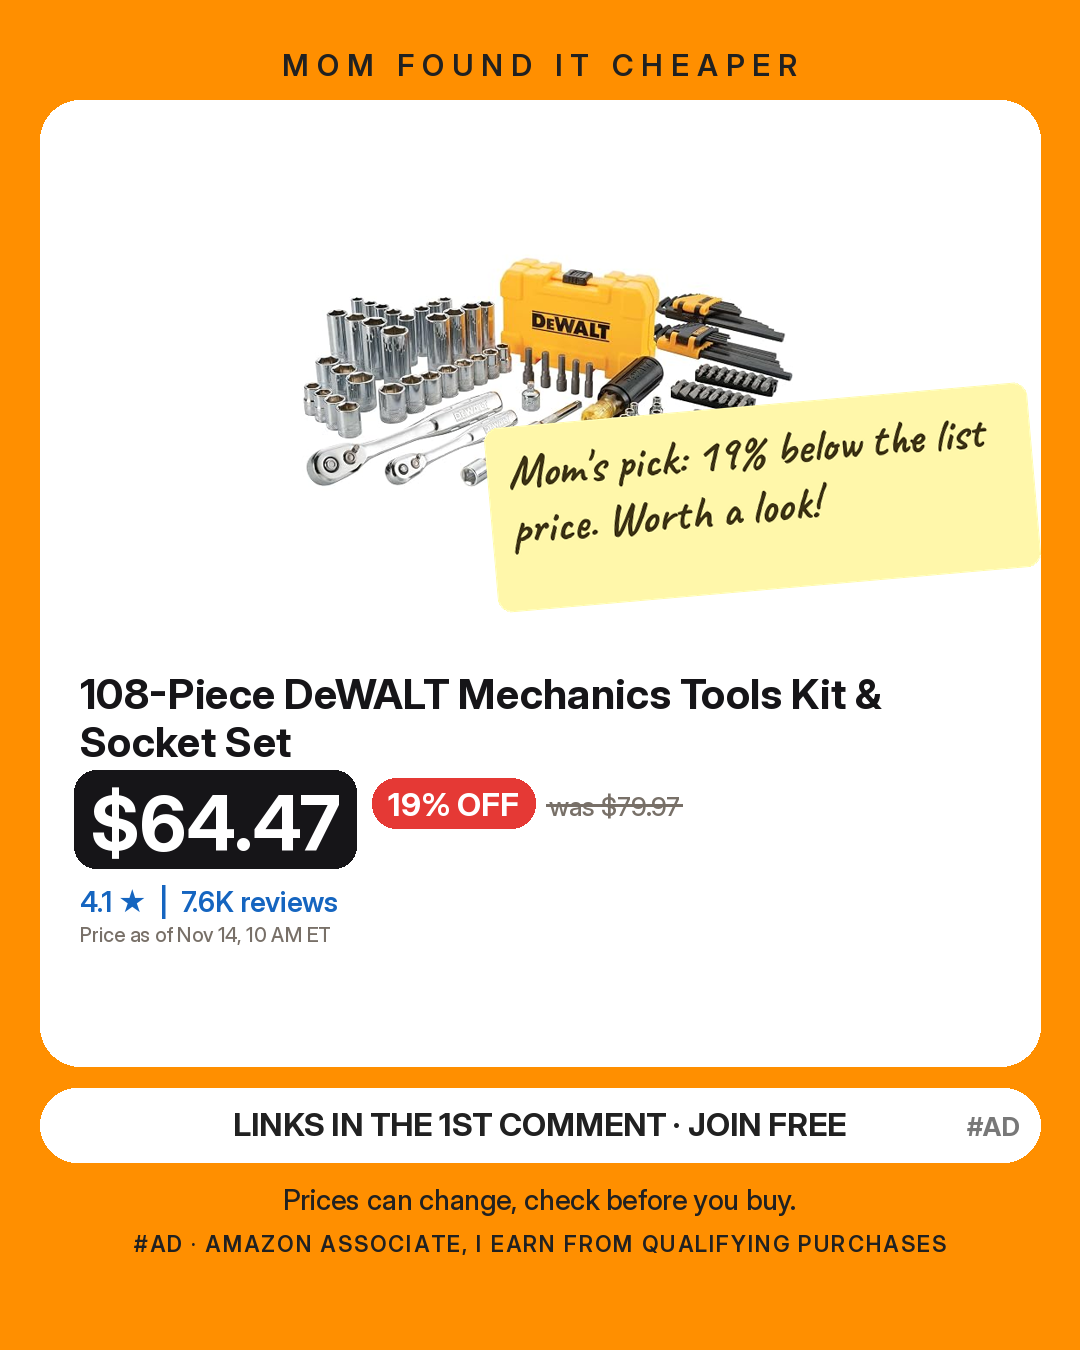
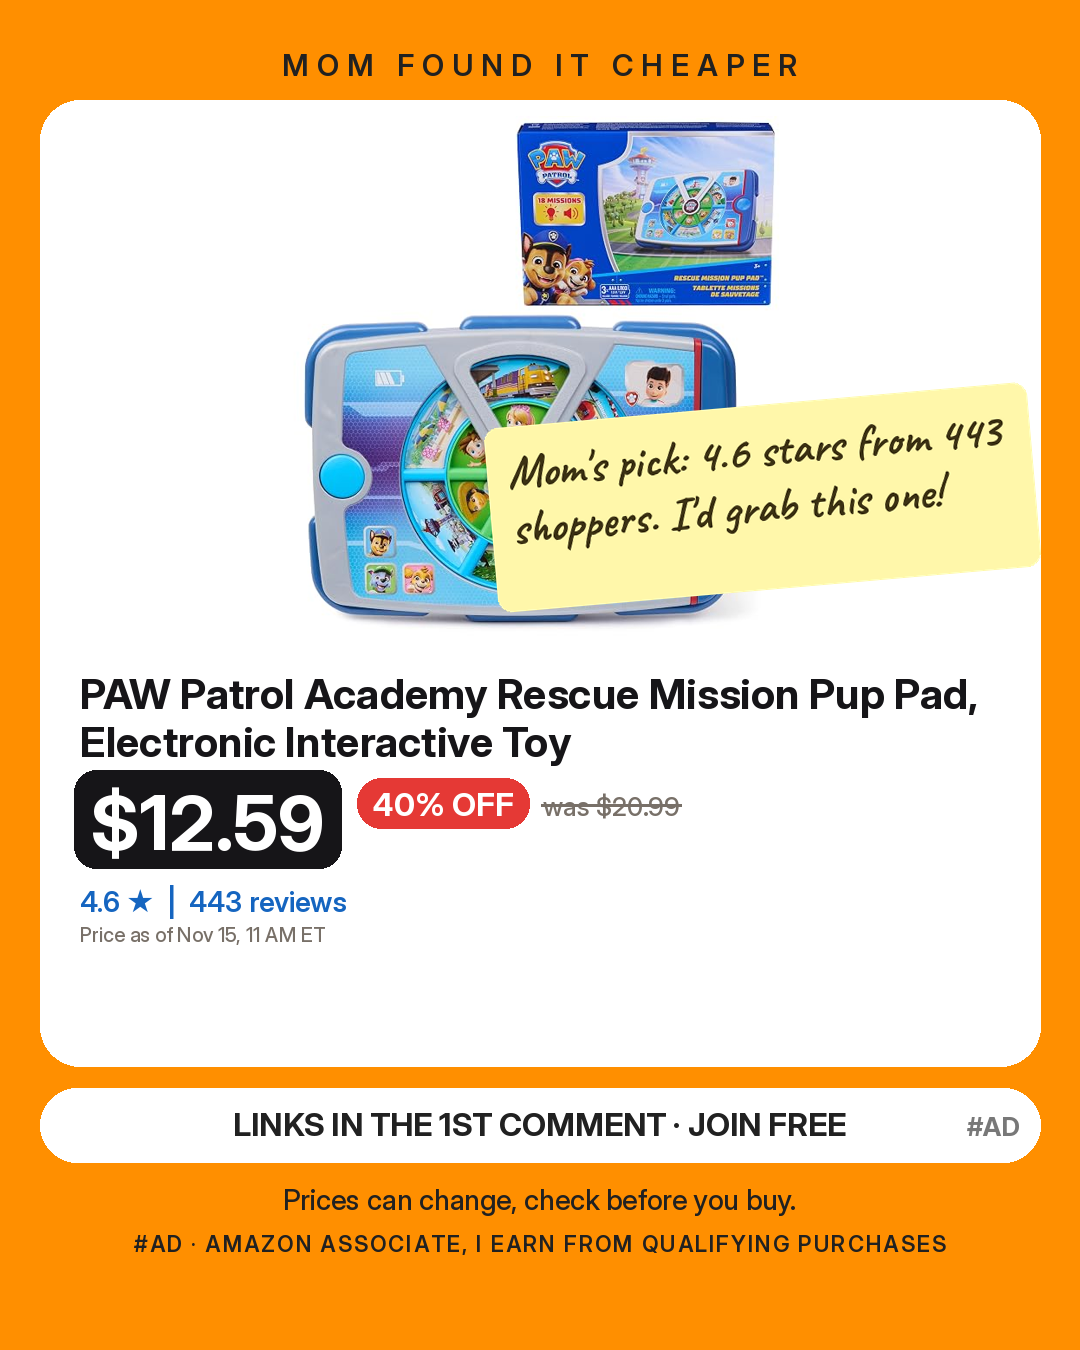
More posts: 5-day cooldown instead of forever, up to 10 quick single-deal posts a day
Claude-Session: https://claude.ai/code/session_013VSLL9D9UfzTwCfefZ99QJ

Changed region(s): [[0.275, 0.0933, 0.9472, 0.4667], [0.0611, 0.4978, 0.9167, 0.7156]]

diff --git a/make_posts.py b/make_posts.py
@@ -745,7 +745,12 @@ def main():
     for _d in deals:
         _d["category"] = category_of(_d["title"])
         fix_price(_d)
-    made = set(json.loads(MADE_FILE.read_text())) if MADE_FILE.exists() else set()
+    today_n = datetime.now(timezone.utc).toordinal()
+    _raw = json.loads(MADE_FILE.read_text()) if MADE_FILE.exists() else {}
+    if isinstance(_raw, list):                       # old format: ids only -> treat as posted today
+        _raw = {i: today_n for i in _raw}
+    COOLDOWN_DAYS = 5                                # a deal can come back after 5 days (price may have changed)
+    made = {i for i, dn in _raw.items() if today_n - dn < COOLDOWN_DAYS}
     import shutil
     shutil.rmtree(OUT, ignore_errors=True)       # no stale posts from earlier runs
     OUT.mkdir(exist_ok=True)
@@ -827,7 +832,41 @@ def main():
         SEEN_ASIN.update([a.get("asin"), b.get("asin")])
         MANIFEST.append(dict(file="post_thisorthat", kind="thisorthat", theme="THIS or THAT", items=[_mf(a), _mf(b)]))
         print("made post_thisorthat.png")
-    MADE_FILE.write_text(json.dumps(sorted(made)[-900:], indent=1))
+    # quick single-deal posts: every other good deal gets its own post (big groups post 20-90 a day)
+    QUICK_MAX = int(os.environ.get("QUICK_POSTS") or "10")
+    qc = [d for d in deals if d["id"] not in made and pct_off(d) >= 10 and is_amazon(d) and d.get("asin") and d.get("asin") not in SEEN_ASIN
+          and find_photo(d) and not qa_check(d)[0] and price_value(d.get("price", "")) and not d.get("expired")
+          and not any(w in d["title"].lower() for w in SKIP_WORDS)]
+    qc.sort(key=score, reverse=True)
+    seen_q = set()
+    qn = 0
+    for d in qc:
+        if qn >= QUICK_MAX:
+            break
+        k = product_key(d)
+        if k in seen_q:
+            continue
+        seen_q.add(k)
+        qn += 1
+        PALETTES["_q"] = ROT[(today_n + qn) % len(ROT)]
+        f = f"post_q{qn}"
+        make_image_single(OUT / f"{f}.png", d, "_q")
+        nm = tidy(short_title(no_price_title(d["title"])))
+        nm = nm if len(nm) <= 70 else " ".join(nm.split()[:9])
+        off = pct_off(d)
+        cap = (f"\U0001F525 {off}% OFF! {nm} is just {d['price']}.\n{mom_note(d)}\nLink is in the first comment.\n"
+               f"(AD)(Commission earned) As an Amazon Associate I earn from qualifying purchases.\n\n{HASHTAG_SET}")
+        cm = f"Shop here (prices and codes can change):\n{link_for(d)}\nAs an Amazon Associate I earn from qualifying purchases."
+        (OUT / f"{f}.txt").write_text(f"CAPTION:\n{cap}\n\nFIRST COMMENT (paste after posting):\n{cm}\n")
+        (WEB / f"{f}.png").write_bytes((OUT / f"{f}.png").read_bytes())
+        MANIFEST.append(dict(file=f, kind="quick", theme=f"Quick deal: {off}% OFF", items=[_mf(d)]))
+        SEEN_ASIN.add(d.get("asin"))
+        made.add(d["id"])
+    print(f"made {qn} quick deal posts")
+    for _i in made:
+        _raw.setdefault(_i, today_n)
+    _raw = {i: dn for i, dn in _raw.items() if today_n - dn < 30}
+    MADE_FILE.write_text(json.dumps(_raw, indent=0))
     (OUT / "manifest.json").write_text(json.dumps(MANIFEST, indent=1))
     print(f"{len(groups)} posts made")
 
